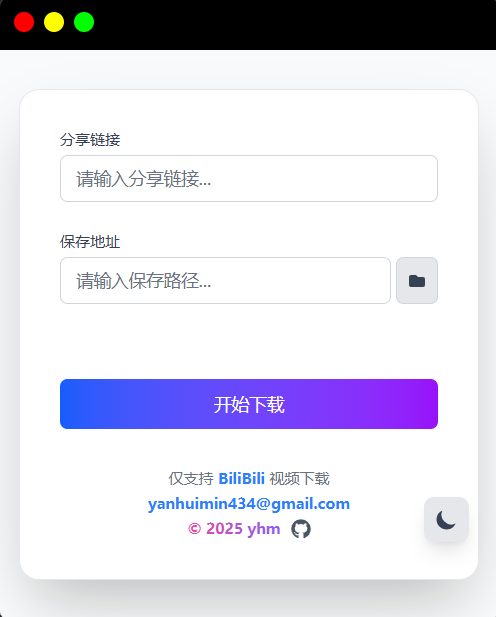
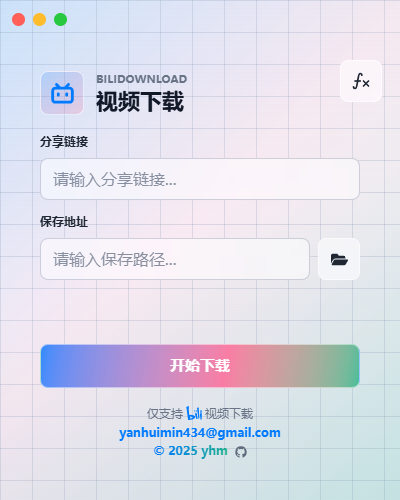
update readme

diff --git a/README.md b/README.md
@@ -1,81 +1,80 @@
 # BiliBili Downloader
 
-[![Bilibili Downloader](https://img.shields.io/badge/BiliBili_Downloader-v1.0.6-00A1D6?logo=bilibili&logoColor=white)](https://github.com/Yan-huimin/BiliBili-Downloader)
-[![React](https://img.shields.io/badge/React-20232A?logo=react&logoColor=61DAFB)](https://reactjs.org)
-[![Tailwind CSS](https://img.shields.io/badge/Tailwind_CSS-38B2AC?logo=tailwind-css&logoColor=white)](https://tailwindcss.com)
-[![TypeScript](https://img.shields.io/badge/TypeScript-3178C6?logo=typescript&logoColor=white)](https://www.typescriptlang.org)
-[![Electron](https://img.shields.io/badge/Electron-47848F?logo=electron&logoColor=white)](https://www.electronjs.org)
-[![Vite](https://img.shields.io/badge/Vite-646CFF?logo=vite&logoColor=white)](https://vitejs.dev)
+[![Bilibili Downloader](https://img.shields.io/badge/BiliBili_Downloader-v1.0.7-00A1D6?logo=bilibili&logoColor=white)](https://github.com/Yan-huimin/BiliBili-Downloader)
+[![React](https://img.shields.io/badge/React-19-20232A?logo=react&logoColor=61DAFB)](https://react.dev)
+[![Tailwind CSS](https://img.shields.io/badge/Tailwind_CSS-4-38B2AC?logo=tailwind-css&logoColor=white)](https://tailwindcss.com)
+[![TypeScript](https://img.shields.io/badge/TypeScript-5.7-3178C6?logo=typescript&logoColor=white)](https://www.typescriptlang.org)
+[![Electron](https://img.shields.io/badge/Electron-36-47848F?logo=electron&logoColor=white)](https://www.electronjs.org)
+[![Vite](https://img.shields.io/badge/Vite-6-646CFF?logo=vite&logoColor=white)](https://vite.dev)
 
----
+一个基于 Electron、React、TypeScript 和 Tailwind CSS 的 B 站视频下载桌面应用。
 
-一个基于 Electron + React + TypeScript 的 Bilibili 视频下载桌面应用。
+应用采用固定 `400 x 500` 的无边框窗口，主界面是带网格背景的毛玻璃风格。你可以粘贴 B 站视频分享链接，选择保存目录，然后下载视频；登录后可使用账号权限内的更高清晰度。
 
-将 B站视频分享链接粘贴到软件中，选择保存路径，点击下载即可。支持多种清晰度选择、多线程下载、B 站账号登录等功能。
-
-![app](./public/app.png)
-
----
+![深色主题主界面](./public/app.png)
 
 ## 功能
 
-### 已实现
-
-- 下载 B 站免费视频（支持 BV 号格式）
-- 多线程下载，支持视频/音频分离后自动合并（ffmpeg）
-- 下载进度条实时显示
-- 用户自定义文件保存路径（文件夹选择器）
-- **明/暗双主题** — 点击右下角功能菜单切换
-- **B 站账号登录** — 扫码登录，自动保持登录状态约 30 天
-- **多种清晰度** — 支持 360p / 480p / 720p / 720p 高帧率 / 1080p / 1080p 高码率 / 1080p 60帧 / 4K（大会员专属清晰度需要登录对应账号）
-- **默认配置** — 可保存默认清晰度、默认下载路径
-- **系统通知** — 下载完成后弹出系统通知，2 秒后自动消失
-- **彩带特效** — 下载成功后播放彩带动画
-- **设置项开关** — 系统通知、彩带特效均可独立开关
-- **自定义窗口标题栏** — 支持关闭、最小化、最大化按钮
-
-### 待实现
-
-- 支持其他视频格式（目前仅支持 BV 号视频）
-- 合集视频一键下载
-- 软件内查看下载视频信息
-- 下载速率显示
-- 下载耗时显示
-- 历史下载记录
-- 自定义视频文件名
-- 软件自动更新
-
-> 当前不考虑 UI 重构，如果你擅长前端，欢迎 PR。
-
----
+- 支持从分享链接中提取 BV 号并获取视频地址。
+- 支持 360p、480p、720p、720p 高帧率、1080p、1080p 高码率、1080p60、4K 等清晰度配置。
+- 支持 B 站扫码登录，登录 Cookie 会持久化保存。
+- 支持视频和音频分离下载后通过 `ffmpeg-static` 自动合并为 MP4。
+- 大文件使用 Range 分片下载，小文件自动走单次下载。
+- 支持实时下载进度条。
+- 支持默认下载目录、默认清晰度、系统通知和彩带特效配置。
+- 支持下载完成后的系统通知和可选彩带动画。
+- 自定义 Electron 标题栏，保留关闭、最小化和最大化按钮。
+- 支持深色和浅色主题切换，默认深色主题。
 
 ## 截图
 
-### 亮色主题
+### 深色主题
 
-![亮色主题](./public/day.png)
+![深色主题](./public/app.png)
 
-### 暗色主题
+### 浅色主题
 
-![暗色主题](./public/app.png)
+![浅色主题](./public/day.png)
 
----
+## 使用方式
+
+1. 打开应用。
+2. 将 B 站视频分享链接粘贴到“分享链接”输入框。
+3. 输入或选择保存路径。
+4. 按需打开右上角工具菜单，登录账号或调整设置。
+5. 点击“开始下载”。
+
+如果需要下载更高清晰度，请先扫码登录拥有对应权限的 B 站账号。
 
 ## 技术栈
 
-| 层 | 技术 |
+| 模块 | 技术 |
 | --- | --- |
-| 前端框架 | React 19 |
-| 构建工具 | Vite |
-| 桌面框架 | Electron 36 |
-| 样式 | Tailwind CSS 4 |
-| 语言 | TypeScript |
+| 桌面端 | Electron 36 |
+| 前端 | React 19 |
+| 样式 | Tailwind CSS 4 + 局部 CSS |
+| 语言 | TypeScript 5.7 |
+| 构建 | Vite 6 |
 | 动画 | Framer Motion |
+| 图标 | react-icons |
 | 二维码 | react-qr-code |
-| 视频合并 | ffmpeg (ffmpeg-static) |
-| HTTP 请求 | axios + axios-cookiejar-support |
+| HTTP 与 Cookie | axios、axios-cookiejar-support、tough-cookie |
+| 视频合并 | ffmpeg-static |
+| 测试 | Playwright |
 
----
+## 项目结构
+
+```text
+src/
+  electron/              Electron 主进程、IPC、下载和 B 站接口逻辑
+  ui/
+    components/          React 展示组件
+    hooks/               下载、设置、登录、弹窗等自定义 hooks
+    constants/           清晰度等静态配置
+    css/                 毛玻璃界面与弹窗样式
+public/                  README 截图与公共静态资源
+e2e/                     Playwright 端到端测试
+```
 
 ## 开发
 
@@ -83,29 +82,31 @@
 # 安装依赖
 npm install
 
-# 启动开发模式（React + Electron 并行）
+# 同时启动 React 和 Electron
 npm run dev
 
-# 仅启动 React 开发服务器
+# 只启动 React 开发服务
 npm run dev:react
 
-# 仅编译 Electron
+# 编译并启动 Electron 开发环境
 npm run dev:electron
 
-# 构建
+# 类型检查并构建前端产物
 npm run build
 ```
+
+开发模式下 React 服务默认运行在 `http://localhost:5123`。
 
 ## 打包
 
 ```bash
-# macOS (ARM64)
+# macOS ARM64
 npm run dist:mac
 
-# Windows (x64)
+# Windows x64
 npm run dist:win
 
-# Linux (x64)
+# Linux x64
 npm run dist:linux
 ```
 
@@ -115,11 +116,25 @@ npm run dist:linux
 npm run test:e2e
 ```
 
+如果本机还没有 Playwright 浏览器，需要先执行：
+
+```bash
+npx playwright install
+```
+
 ## 环境要求
 
-- Node.js >= 18
-- npm >= 9
+- Node.js 18 或更高版本
+- npm 9 或更高版本
+- Windows、macOS 或 Linux 桌面环境
 
-## 许可
+## 注意事项
 
-&copy; 2025 yhm
+- 当前主要面向包含 BV 号的 B 站视频链接。
+- 高清、4K 等清晰度取决于登录账号权限和 B 站接口返回结果。
+- 下载内容请遵守 B 站用户协议和相关版权规定，本项目仅用于学习与个人使用。
+
+## 作者
+
+© 2025 yhm  
+GitHub: [Yan-huimin](https://github.com/Yan-huimin)
